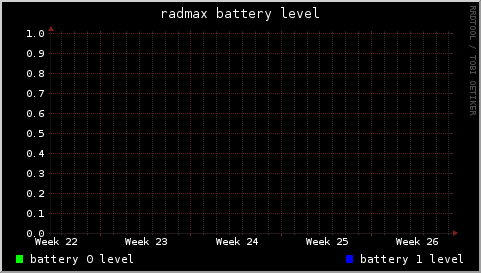
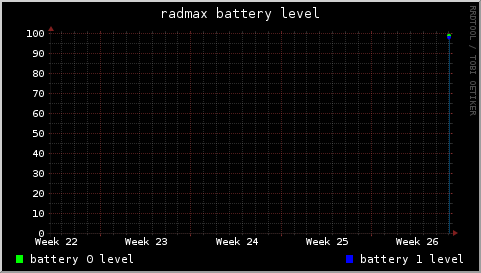
more stuff

diff --git a/README.md b/README.md
@@ -29,3 +29,28 @@ acpi command. Another day maybe.
 Here's a sample of a graph and there are [samples of different resolutions here](graphs.md).
 
 ![](graph_3h.png)
+
+## Phone support
+
+I've also been looking high and low for something that maintains historical
+graphs of my phone that I can port around. Something where I can get at the
+data. I bought a rad tool called AccuBattery of the play store and I highly
+recommend it, but it feels too polished, not hackery enough for me (admittedly I
+haven't dug through the logs).
+
+Anyway, I used tasker to do a HTTP Post every 5 minutes to a dweet.io board that
+I've wired into both freeboard.io and this script. So my graphs are getting
+saved to freeboard (though the data doesn't stick beyond a single session) and
+they're being saved to the same rrd file I'm using to monitor my laptop
+batteries. Ultimately, that means this little RRD file is holding a bunch of
+battery data, which is pretty cool. Should probably get this script and cronjob
+running on an aws microserver, so it can be pulling the data all the time, not
+just when my laptop is running.
+
+Here's a sample graph.
+
+![](graph_phone_3h.png)
+
+And here's the gauge in freeboard.
+
+![](freeboard_phone_graph.png)
